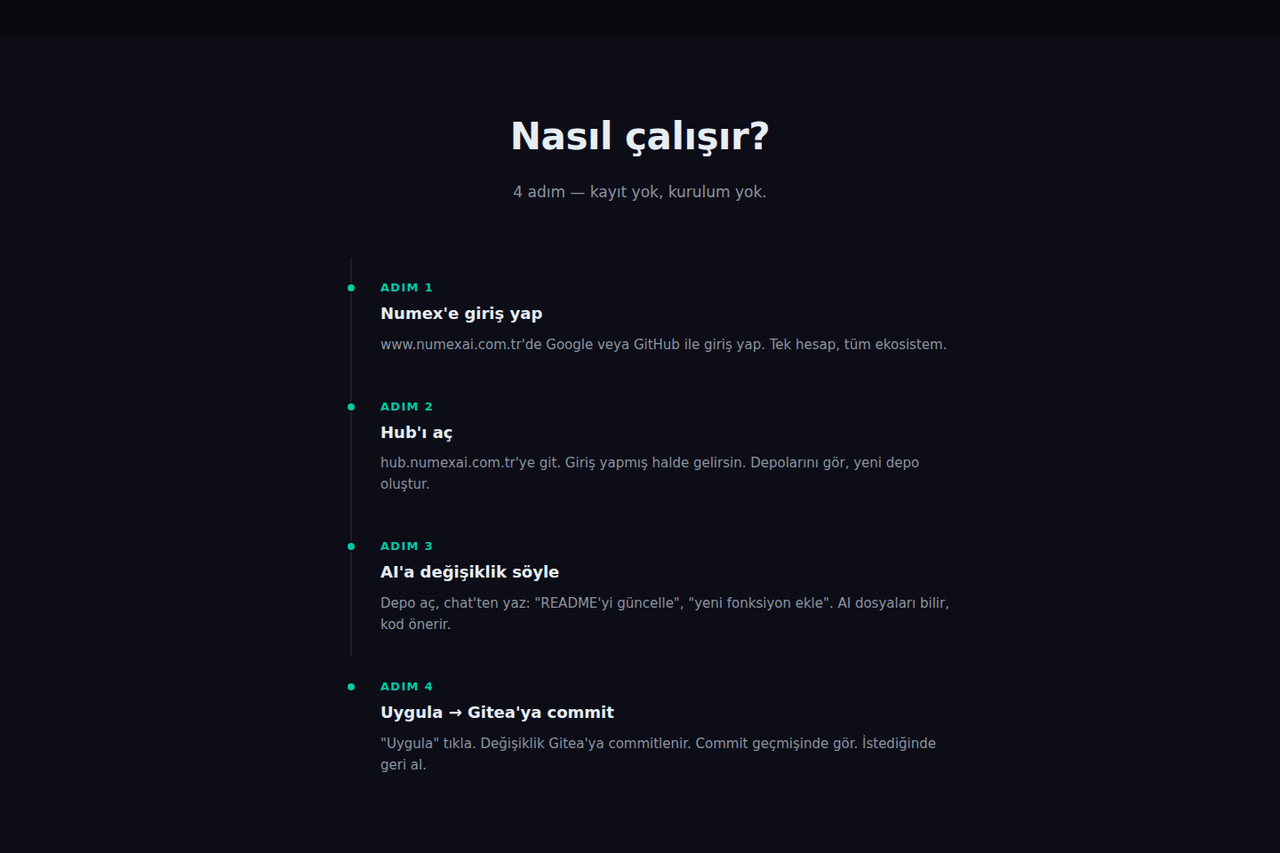
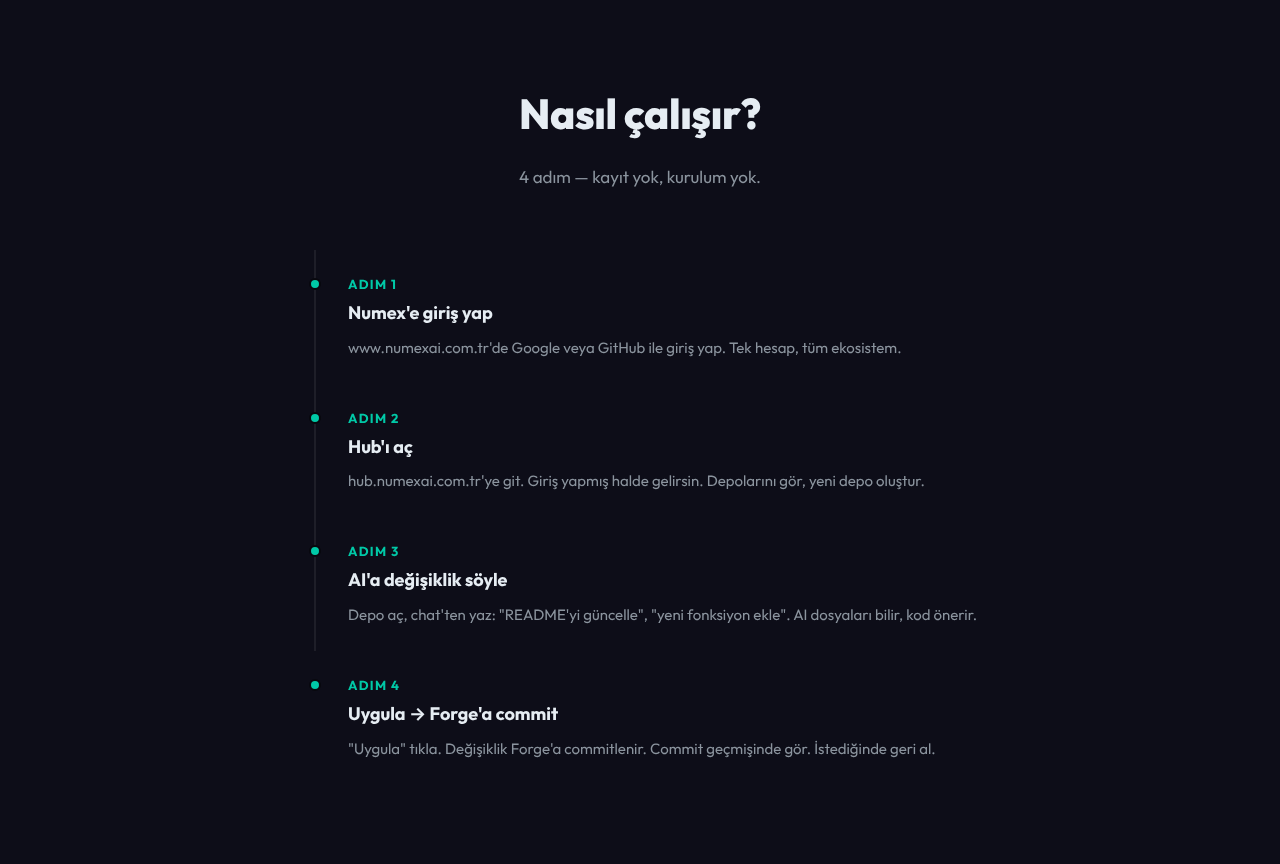
Hub ekran görüntüleri yenilendi, gizli repo linki düzeltildi (#3)
Ekran görüntülerinde Gitea yerine Forge, logo ve marka fontu düzgün; PC Doktoru linki numexai/pc-doktoru.

diff --git a/README.md b/README.md
@@ -79,7 +79,7 @@ flowchart LR
 
 <div align="center">
 
-**Numex Ailesi** · [Numex AI](https://numexai.com.tr) · [Codex](https://github.com/numexai/numex-codex) · [Okul](https://github.com/numexai/numex-okul) · [Market](https://market.numexai.com.tr) · [Numexpedia](https://github.com/numexai/numex-pedia) · [Hub](https://github.com/numexai/numex-hub) · [Forge](https://github.com/numexai/numex-forge) · [API](https://github.com/numexai/numex-api) · [SDK](https://github.com/numexai/numex-sdk) · [Pusulam](https://github.com/numexai/pusulamx) · [PC Doktoru](https://github.com/mobilcep/pcdoktoru)
+**Numex Ailesi** · [Numex AI](https://numexai.com.tr) · [Codex](https://github.com/numexai/numex-codex) · [Okul](https://github.com/numexai/numex-okul) · [Market](https://market.numexai.com.tr) · [Numexpedia](https://github.com/numexai/numex-pedia) · [Hub](https://github.com/numexai/numex-hub) · [Forge](https://github.com/numexai/numex-forge) · [API](https://github.com/numexai/numex-api) · [SDK](https://github.com/numexai/numex-sdk) · [Pusulam](https://github.com/numexai/pusulamx) · [PC Doktoru](https://github.com/numexai/pc-doktoru)
 
 *İnsanı önce koyan Türk yapay zekâsı* 🇹🇷 · [Tüm ekosistem →](https://github.com/numexai/numex_nedir)
 

diff --git a/README.en.md b/README.en.md
@@ -75,7 +75,7 @@ flowchart LR
 
 <div align="center">
 
-**Numex Family** · [Numex AI](https://numexai.com.tr) · [Codex](https://github.com/numexai/numex-codex) · [Okul](https://github.com/numexai/numex-okul) · [Market](https://market.numexai.com.tr) · [Numexpedia](https://github.com/numexai/numex-pedia) · [Hub](https://github.com/numexai/numex-hub) · [Forge](https://github.com/numexai/numex-forge) · [API](https://github.com/numexai/numex-api) · [SDK](https://github.com/numexai/numex-sdk) · [Pusulam](https://github.com/numexai/pusulamx) · [PC Doktoru](https://github.com/mobilcep/pcdoktoru)
+**Numex Family** · [Numex AI](https://numexai.com.tr) · [Codex](https://github.com/numexai/numex-codex) · [Okul](https://github.com/numexai/numex-okul) · [Market](https://market.numexai.com.tr) · [Numexpedia](https://github.com/numexai/numex-pedia) · [Hub](https://github.com/numexai/numex-hub) · [Forge](https://github.com/numexai/numex-forge) · [API](https://github.com/numexai/numex-api) · [SDK](https://github.com/numexai/numex-sdk) · [Pusulam](https://github.com/numexai/pusulamx) · [PC Doktoru](https://github.com/numexai/pc-doktoru)
 
 *The Turkish AI that puts people first* 🇹🇷 · [Whole ecosystem →](https://github.com/numexai/numex_nedir)
 
